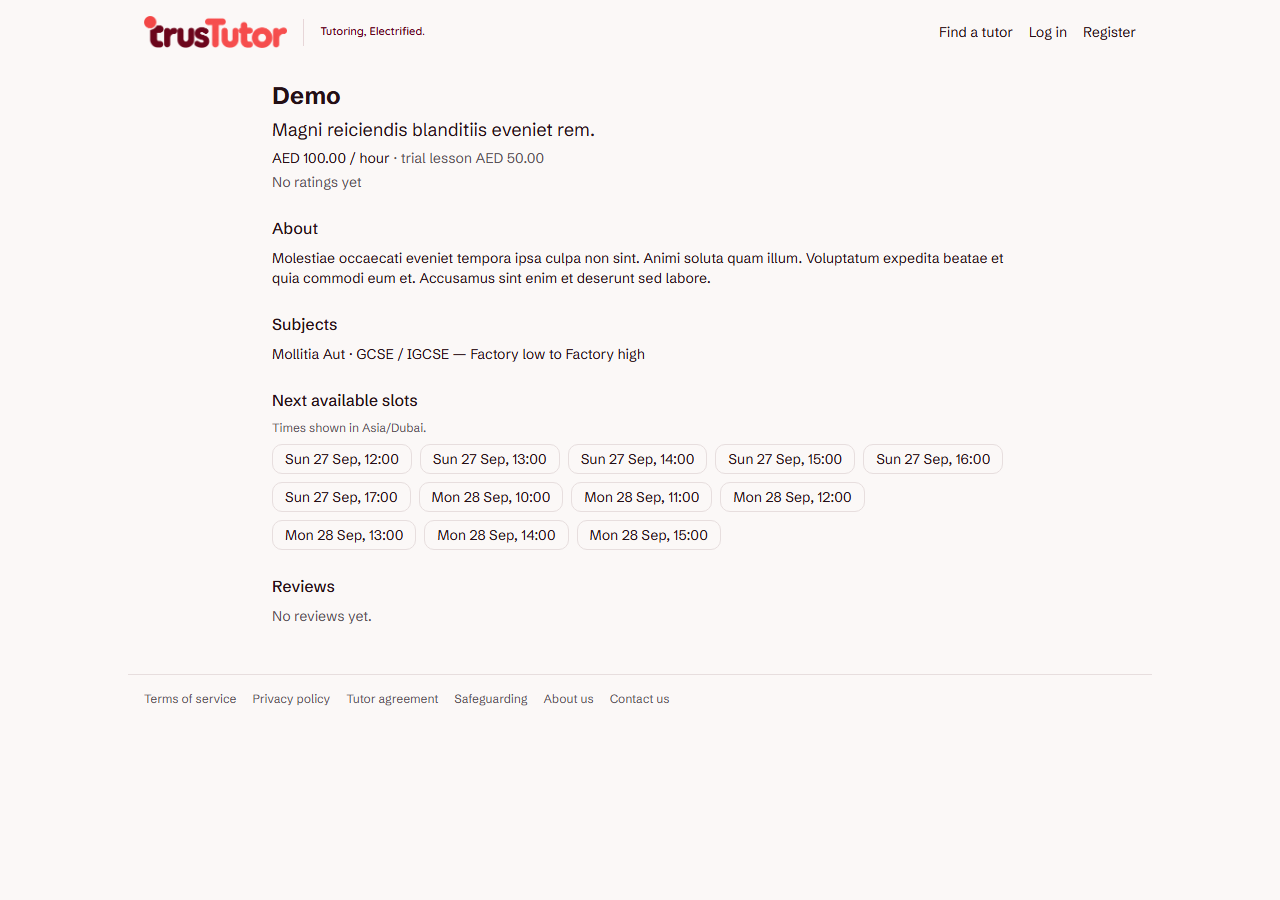
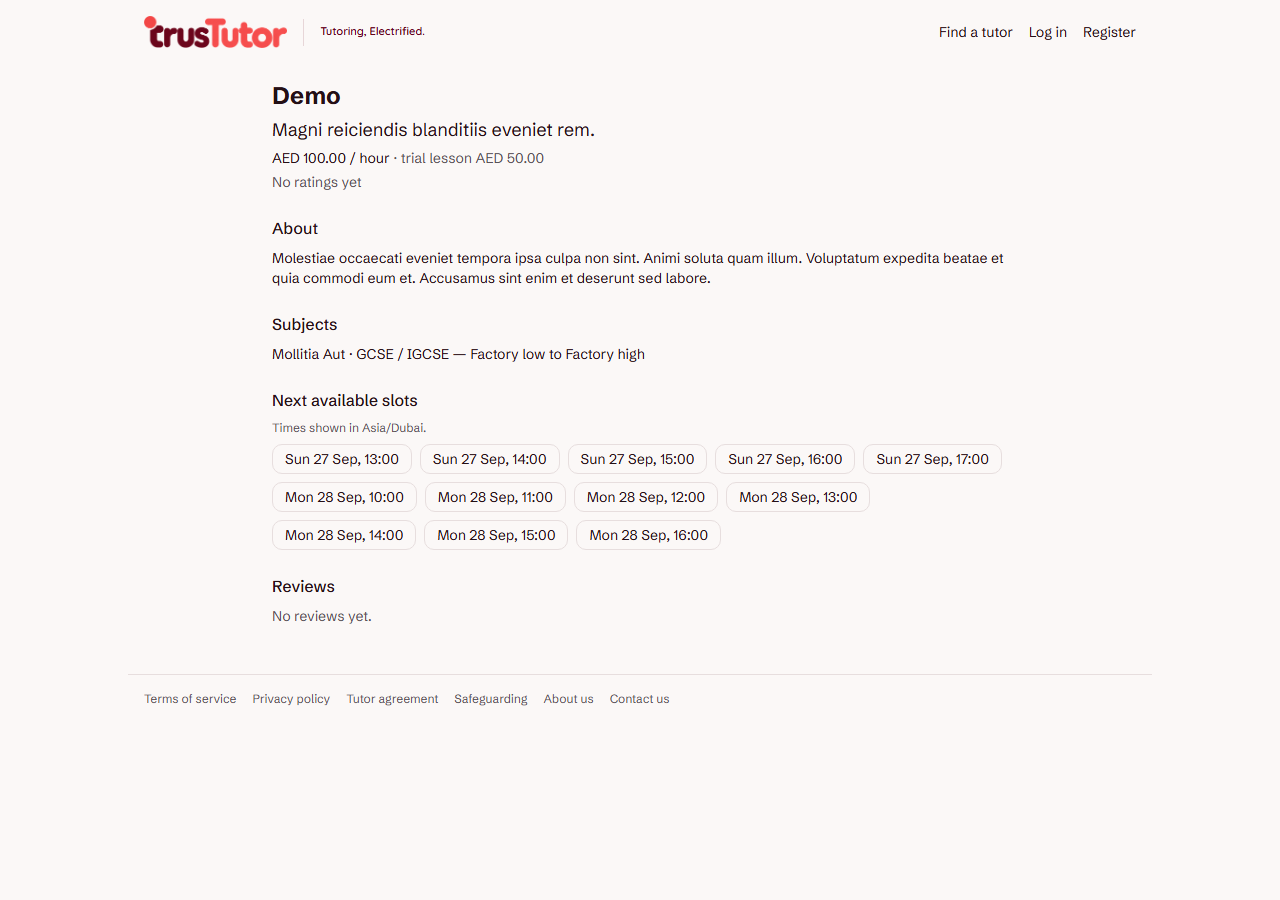
7g fix loop 1: dark-scheme marks, admin dark canvas, logical active bar
Review findings: BrandLockup now follows the colour scheme (white knockout under .dark) with a decorative option; Filament dark-mode logo and light-only canvas; active bar is a logical ::before (RTL-safe); dead collapse-button selector fixed; favicon lazy; report corrected and dark screenshots added.

diff --git a/resources/js/components/BrandLockup.vue b/resources/js/components/BrandLockup.vue
@@ -3,74 +3,105 @@
  * The TrusTutor lockups from docs/brand (R49, README §2). `lockup` is the horizontal wordmark | rule | tagline (C):
  * from 768px up the tagline sits beside the wordmark; below 768px it drops underneath, start-aligned, with no rule;
  * below 480px it is dropped and the wordmark stands alone. `wordmark` and `symbol` are the single marks. `dark`
- * swaps in the white knockout for dark grounds. Everything supplied is raster, so nothing is scaled above the
- * sizes in public/brand (the vector redraw is outstanding from the designer).
+ * forces the white knockout (a mark on a dark panel in the light scheme); without it the mark follows the colour
+ * scheme, so the `.dark` scheme gets the knockout too. `decorative` blanks the alt text where the brand name is
+ * already in the link text. Everything supplied is raster, so nothing is scaled above the sizes in public/brand
+ * (the vector redraw is outstanding from the designer). The caller's class lands on the wrapper (size, visibility).
  */
-import { computed } from 'vue';
 import { cn } from '@/lib/utils';
 
 defineOptions({ inheritAttrs: false });
 
-const props = withDefaults(
+withDefaults(
     defineProps<{
         variant?: 'lockup' | 'wordmark' | 'symbol';
         dark?: boolean;
+        decorative?: boolean;
     }>(),
-    { variant: 'lockup', dark: false },
+    { variant: 'lockup', dark: false, decorative: false },
 );
 
-const wordmark = computed(() =>
-    props.dark
-        ? { src: '/brand/trustutor-wordmark-white-1200.png', set: '' }
-        : {
-              src: '/brand/trustutor-wordmark-colour-600.png',
-              set: '/brand/trustutor-wordmark-colour-600.png 600w, /brand/trustutor-wordmark-colour-1200.png 1200w',
-          },
-);
-const symbol = computed(() =>
-    props.dark
-        ? '/brand/trustutor-symbol-white-512.png'
-        : '/brand/trustutor-symbol-colour-512.png',
-);
+const wordmarkColour = {
+    src: '/brand/trustutor-wordmark-colour-600.png',
+    set: '/brand/trustutor-wordmark-colour-600.png 600w, /brand/trustutor-wordmark-colour-1200.png 1200w',
+};
+const wordmarkWhite = '/brand/trustutor-wordmark-white-1200.png';
+const symbolColour = '/brand/trustutor-symbol-colour-512.png';
+const symbolWhite = '/brand/trustutor-symbol-white-512.png';
 </script>
 
 <template>
-    <img
-        v-if="variant === 'symbol'"
-        :src="symbol"
-        alt="TrusTutor"
-        :class="cn('h-8 w-auto', $attrs.class as string)"
-        data-test="brand-symbol"
-    />
-    <img
-        v-else-if="variant === 'wordmark'"
-        :src="wordmark.src"
-        :srcset="wordmark.set || undefined"
-        sizes="143px"
-        alt="TrusTutor"
-        :class="cn('h-8 w-auto', $attrs.class as string)"
-        data-test="brand-wordmark"
-    />
     <span
-        v-else
-        :class="cn('flex items-center gap-4 max-md:flex-col max-md:items-start max-md:gap-2.5', $attrs.class as string)"
-        data-test="brand-lockup"
+        v-if="variant === 'symbol'"
+        :class="cn('inline-flex h-8 items-center', $attrs.class as string)"
+        data-test="brand-symbol"
     >
         <img
-            :src="wordmark.src"
-            :srcset="wordmark.set || undefined"
-            sizes="143px"
-            alt="TrusTutor"
-            class="h-8 w-auto max-md:h-7"
+            v-if="!dark"
+            :src="symbolColour"
+            :alt="decorative ? '' : 'TrusTutor'"
+            class="h-full w-auto dark:hidden"
         />
+        <img
+            :src="symbolWhite"
+            :alt="decorative ? '' : 'TrusTutor'"
+            :class="dark ? 'h-full w-auto' : 'hidden h-full w-auto dark:block'"
+        />
+    </span>
+    <span
+        v-else-if="variant === 'wordmark'"
+        :class="cn('inline-flex h-8 items-center', $attrs.class as string)"
+        data-test="brand-wordmark"
+    >
+        <img
+            v-if="!dark"
+            :src="wordmarkColour.src"
+            :srcset="wordmarkColour.set"
+            sizes="143px"
+            :alt="decorative ? '' : 'TrusTutor'"
+            class="h-full w-auto dark:hidden"
+        />
+        <img
+            :src="wordmarkWhite"
+            :alt="decorative ? '' : 'TrusTutor'"
+            :class="dark ? 'h-full w-auto' : 'hidden h-full w-auto dark:block'"
+        />
+    </span>
+    <span
+        v-else
+        :class="
+            cn(
+                'flex items-center gap-4 max-md:flex-col max-md:items-start max-md:gap-2.5',
+                $attrs.class as string,
+            )
+        "
+        data-test="brand-lockup"
+    >
+        <span class="inline-flex h-8 items-center max-md:h-7">
+            <img
+                v-if="!dark"
+                :src="wordmarkColour.src"
+                :srcset="wordmarkColour.set"
+                sizes="143px"
+                alt="TrusTutor"
+                class="h-full w-auto dark:hidden"
+            />
+            <img
+                :src="wordmarkWhite"
+                alt="TrusTutor"
+                :class="
+                    dark ? 'h-full w-auto' : 'hidden h-full w-auto dark:block'
+                "
+            />
+        </span>
         <span
             class="hidden h-[27px] w-px flex-none md:block"
-            :class="dark ? 'bg-white/30' : 'bg-[#e7d6d8]'"
+            :class="dark ? 'bg-white/30' : 'bg-[#e7d6d8] dark:bg-white/30'"
             aria-hidden="true"
         />
         <span
             class="font-tagline hidden text-[11px] leading-tight font-semibold whitespace-nowrap min-[480px]:block max-md:text-[10px]"
-            :class="dark ? 'text-white' : 'text-maroon-700'"
+            :class="dark ? 'text-white' : 'text-maroon-700 dark:text-white'"
             data-test="brand-tagline"
             >Tutoring, Electrified.</span
         >

diff --git a/resources/css/filament/admin/theme.css b/resources/css/filament/admin/theme.css
@@ -15,7 +15,8 @@
     --tt-admin-radius-card: 12px;
 }
 
-.fi-body {
+/* Light scheme only: in dark mode Filament's own dark canvas stays. */
+html:not(.dark) .fi-body {
     background-color: var(--tt-admin-canvas);
 }
 
@@ -32,13 +33,25 @@
 .fi-sidebar-group-label,
 .fi-sidebar-item-label,
 .fi-sidebar-item-icon,
-.fi-sidebar-group-collapse-button {
+.fi-sidebar-group-collapse-btn {
     color: rgb(251 248 247 / 0.78);
 }
 
 .fi-sidebar-item.fi-active > .fi-sidebar-item-btn {
+    position: relative;
     background-color: rgb(253 76 83 / 0.14);
-    box-shadow: inset 3px 0 0 #fd4c53;
+}
+
+/* The 3px coral active bar sits on the start edge (logical, so it follows RTL). */
+.fi-sidebar-item.fi-active > .fi-sidebar-item-btn::before {
+    content: '';
+    position: absolute;
+    inset-block: 0;
+    inset-inline-start: 0;
+    width: 3px;
+    background-color: #fd4c53;
+    border-start-start-radius: var(--tt-admin-radius-control);
+    border-end-start-radius: var(--tt-admin-radius-control);
 }
 
 .fi-sidebar-item.fi-active .fi-sidebar-item-label,

diff --git a/resources/js/layouts/auth/AuthSplitLayout.vue b/resources/js/layouts/auth/AuthSplitLayout.vue
@@ -24,7 +24,7 @@ defineProps<{
                 :href="home()"
                 class="relative z-20 flex items-center text-lg font-medium"
             >
-                <BrandLockup variant="symbol" dark class="me-2" />
+                <BrandLockup variant="symbol" dark decorative class="me-2" />
                 {{ name }}
             </Link>
         </div>

diff --git a/resources/js/components/AppLogo.vue b/resources/js/components/AppLogo.vue
@@ -9,6 +9,6 @@ import BrandLockup from '@/components/BrandLockup.vue';
     />
     <BrandLockup
         variant="symbol"
-        class="hidden group-data-[collapsible=icon]:block"
+        class="hidden group-data-[collapsible=icon]:inline-flex"
     />
 </template>

diff --git a/app/Providers/Filament/AdminPanelProvider.php b/app/Providers/Filament/AdminPanelProvider.php
@@ -52,7 +52,8 @@ class AdminPanelProvider extends PanelProvider
             ->brandName('TrusTutor')
             ->brandLogo(fn () => view('filament.admin.brand'))
             ->brandLogoHeight('2rem')
-            ->favicon(asset('brand/favicon-32.png'))
+            ->darkModeBrandLogo(fn () => view('filament.admin.brand-dark'))
+            ->favicon(fn (): string => asset('brand/favicon-32.png'))
             ->viteTheme('resources/css/filament/admin/theme.css')
             // Schibsted Grotesk is self-hosted by the Vite fonts build (same files as the site): no runtime CDN.
             ->font('Schibsted Grotesk', provider: LocalFontProvider::class)

diff --git a/resources/views/filament/admin/brand-dark.blade.php b/resources/views/filament/admin/brand-dark.blade.php
@@ -1,0 +1,2 @@
+{{-- R49: the white knockout wordmark for Filament's dark mode (the colour one is unreadable on the dark topbar). --}}
+<img src="{{ asset('brand/trustutor-wordmark-white-1200.png') }}" alt="TrusTutor" style="height: 100%; width: auto">

diff --git a/docs/reports/7g.md b/docs/reports/7g.md
@@ -9,7 +9,7 @@ Cycle 07 r1, step 8, branch `cp/7g-branding`. Scope: palette, type, radii and lo
 | Tokens | `resources/css/app.css`: the designer's `--tt-*` values verbatim; the shadcn tokens (`--primary`, `--background`, `--border`, …) are mapped onto them, so every existing component takes the palette without a per-component edit. Primary `#64011D`, page ground `#FBF8F7`, ring `#8A0A2A`. |
 | Radii | `--radius-md`/`-lg` = 10px (buttons, fields), `--radius-xl` = 16px (cards). Admin: 8px controls, 12px cards. |
 | Type | Schibsted Grotesk (400/500/700) for UI, Quicksand 600 for the tagline only, IBM Plex Mono for data. All three are self-hosted by the Vite fonts build (`vite.config.ts`), and the Filament panel loads the same files (no runtime CDN). |
-| Lockups | New `BrandLockup.vue` (lockup / wordmark / symbol, `dark` for the white knockout). Used in the public header, the app sidebar (wordmark, symbol when collapsed) and the three auth layouts. |
+| Lockups | New `BrandLockup.vue` (lockup / wordmark / symbol; follows the colour scheme, `dark` forces the white knockout, `decorative` blanks the alt). Used in the public header, the app sidebar (wordmark, symbol when collapsed) and the three auth layouts. |
 | Tagline rule | "Tutoring, Electrified." sits beside the wordmark from 768px, drops below (start-aligned, no rule) under 768px and is dropped under 480px. |
 | Head | Favicons 16/32, apple-touch icon 180, `og:image` 1200×630, inline first-paint background `#FBF8F7`. |
 | Admin | `resources/css/filament/admin/theme.css` (Vite input): sidebar `#240A12`, active item 14% coral tint with a 3px coral bar, canvas `#F6F5F6`, 8/12 radii. `AdminPanelProvider`: explicit maroon ramp (600 = `#64011D`, 500 = `#8A0A2A`), brand name, wordmark logo, favicon, font. |
@@ -37,13 +37,22 @@ The booking "before" screenshot needed open slots, so local-only availability ru
 
 - **Raster only.** The pack ships PNGs; nothing is scaled above its supplied size (the wordmark uses a 600/1200 `srcset`). The vector redraw, tagline outlines and heavier symbol cut are outstanding from the designer (CP8).
 - **`public/favicon.ico`** now contains the brand 32 px PNG bytes under an `.ico` name (browsers sniff the content; no ICO encoder was available). The `<link>` tags point at the PNGs. Replace with a real `.ico` when the designer supplies one.
-- **No dark palette in the pack.** The `.dark` scheme in `app.css` is derived from the same maroon and coral on the darkest ground and is marked as such in a comment. The app does not switch to it by default.
-- **Coral** appears only as the admin active bar/tint and as part of the logo artwork; never as text.
+- **No dark palette in the pack.** The `.dark` scheme in `app.css` is derived from the same maroon and coral on the darkest ground and is marked as such in a comment. The default appearance is `system`, so a dark OS does get it. In it the marks swap to the white knockout (`BrandLockup` follows the scheme; the admin uses `darkModeBrandLogo`), and the primary is the lighter coral-400 (about 7:1 on the dark ground), so `text-primary` links are coral there. That is the one place coral is text; it is outside the pack's coral rule (which exists because coral is 3.4:1 on white) and is flagged for the designer.
+- **Coral** in the light scheme appears only as the admin active bar/tint and as part of the logo artwork; never as text. See the dark-scheme note above for the exception.
 - **Filament's `Color::hex('#64011D')`** lightens the seed to a pink (its 600 shade was `oklch(0.60 …)`), so the panel uses an explicit ramp instead.
+- **Site name text** (the `site_name` setting) is no longer rendered in the public header and sidebar; the brand wordmark replaces it (alt text "TrusTutor").
 - **Untouched by design:** starter-kit sidebar footer links (Repository, Documentation), Filament's default Welcome/Info widgets, copy, layouts.
-- **`logo_path` / `favicon_path` site settings** (CP1, `config/settings.php`, upload fields in `ManageSettings`) exist but nothing in the app reads them, before or after this step; the brand assets are fixed files under `public/brand`. Wiring the settings to the layout is out of scope for a token/lockup pass and is listed as a Deferred line.
+- **`logo_path` / `favicon_path` site settings** (CP1, `config/settings.php`, upload fields in `ManageSettings`) exist but nothing in the app reads them, before or after this step; the brand assets are fixed files under `public/brand`. Wiring the settings to the layout is out of scope for a token/lockup pass and is listed under Deferred in STATUS.md.
 - The UI developer's review of this step is non-blocking (R123).
 
 ## Verification
 
 Recorded in the CYCLE-LOG VERIFICATION entry for 7g (Pint, PHPStan, RTL grep, `npm run build`, `vue-tsc`, chunked suite, `ledger:verify`).
+
+## Dark scheme (system appearance)
+
+The default appearance is `system`, so these are what a dark-OS visitor sees. The brand pack has no dark scheme; this is the derived one (see disclosures).
+
+| Home | Parent dashboard |
+|---|---|
+| ![](7g/dark-home.png) | ![](7g/dark-dashboard.png) |
